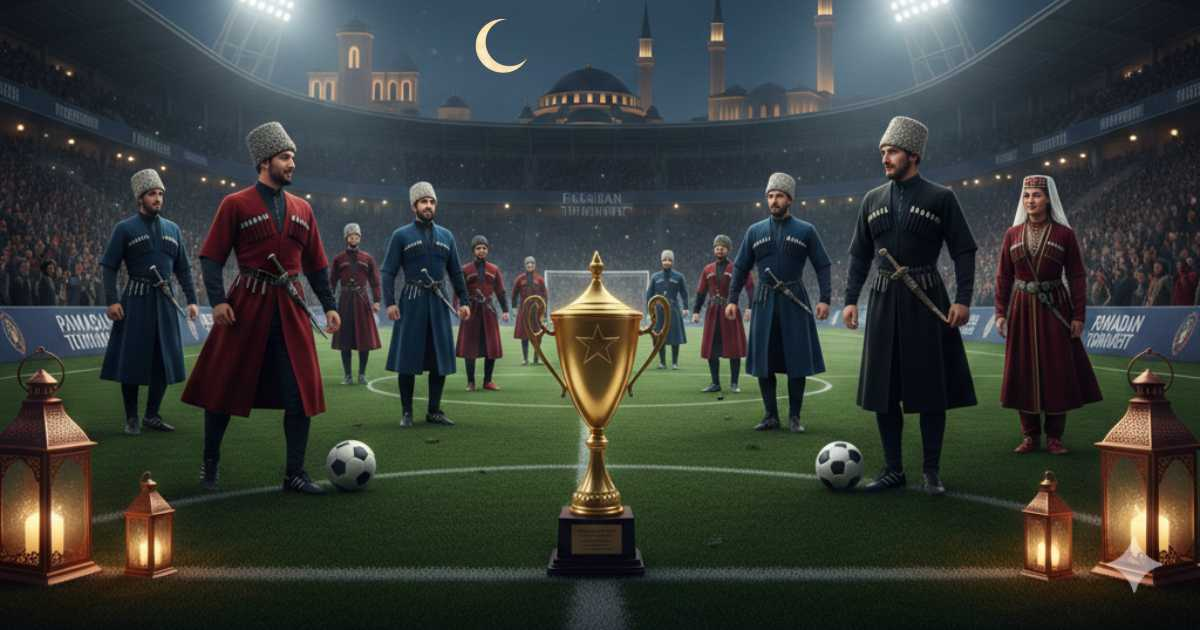
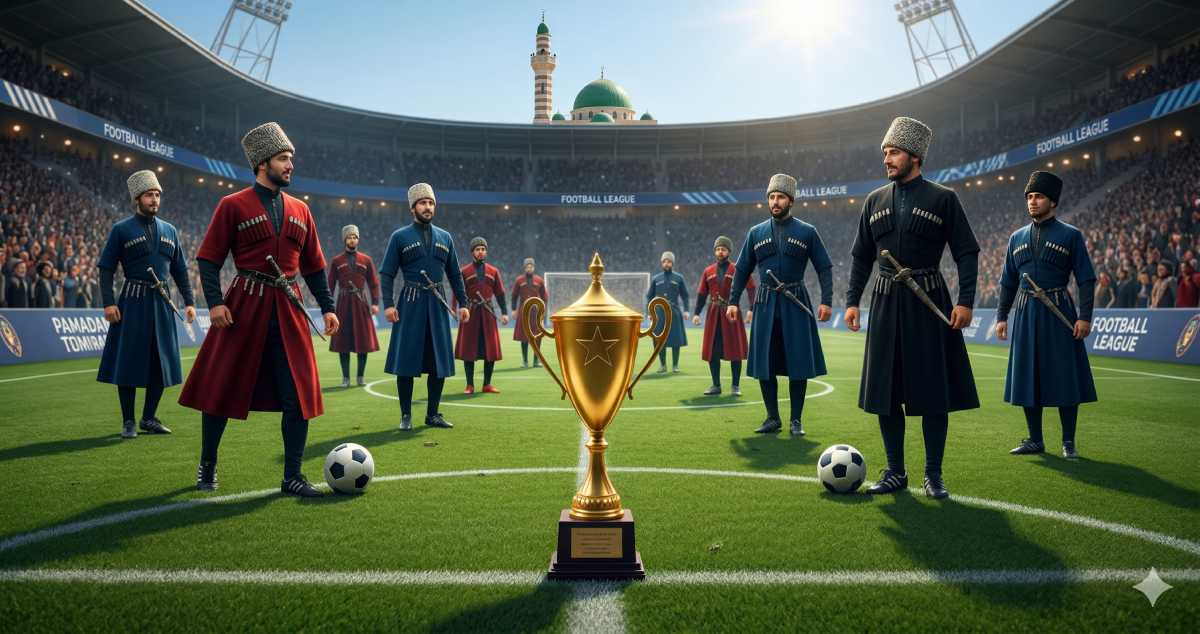
update images to summer

diff --git a/client/src/pages/Teams.tsx b/client/src/pages/Teams.tsx
@@ -177,10 +177,10 @@ const Teams = () => {
 
             {(voteLoaded && !dismissPrompt && (!isLoggedIn || !myVote)) && (
                 <div className="alert alert-warning alert-dismissible fade show mb-4 shadow-sm" style={{ backgroundColor: '#fff8e1', border: '1px solid #ffecb3' }} role="alert">
-                    <strong>{isLoggedIn ? 'טרם בחרת שחקן מצטיין!' : 'הצבעה ל-MVP:'}</strong> 
+                    <strong>{isLoggedIn ? 'טרם בחרת שחקן מצטיין!' : 'הצבעה ל-MVP:'}</strong>
                     <span className="ms-2">
-                        {isLoggedIn 
-                            ? 'לחץ על סימון הכוכב (⭐) בכרטסייה של השחקן בקבוצתו כדי לבחור בו כמצטיין!' 
+                        {isLoggedIn
+                            ? 'לחץ על סימון הכוכב (⭐) בכרטסייה של השחקן בקבוצתו כדי לבחור בו כמצטיין!'
                             : 'התחבר למערכת ולחץ על סימון הכוכב (⭐) בכרטסייה של השחקן בקבוצתו כדי לבחור בו כמצטיין!'}
                     </span>
                     <button type="button" className="btn-close" onClick={() => setDismissPrompt(true)} aria-label="Close"></button>
@@ -318,7 +318,7 @@ const Teams = () => {
                                         ? (selectedPlayer.head_photo.startsWith('http')
                                             ? selectedPlayer.head_photo
                                             : `${(import.meta.env.VITE_API_URL || 'http://localhost:5000').replace(/\/api$/, '')}${selectedPlayer.head_photo}`)
-                                        : '/assets/images/players/heads/default.png'}
+                                        : '/assets/images/players/heads/default.jpg'}
                                     alt={selectedPlayer.firstName}
                                     className="rounded-circle mb-3 border border-3 border-warning"
                                     style={{ width: '120px', height: '120px', objectFit: 'cover' }}
